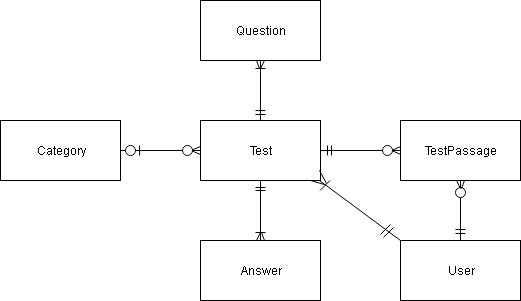
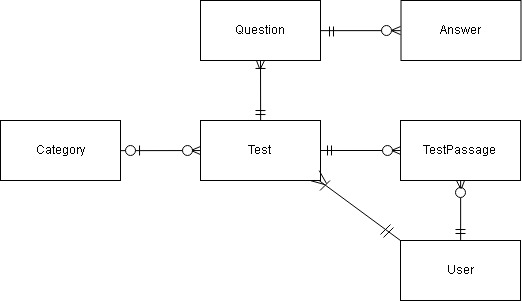
part_5 coccert 2

diff --git a/db/schema.rb b/db/schema.rb
@@ -10,55 +10,6 @@
 #
 # It's strongly recommended that you check this file into your version control system.
 
-ActiveRecord::Schema.define(version: 2018_05_22_195512) do
-
-  create_table "answers", force: :cascade do |t|
-    t.string "body", null: false
-    t.boolean "correct", default: false, null: false
-    t.integer "test_id"
-    t.integer "user_id"
-    t.datetime "created_at", null: false
-    t.datetime "updated_at", null: false
-    t.index ["test_id"], name: "index_answers_on_test_id"
-    t.index ["user_id"], name: "index_answers_on_user_id"
-  end
-
-  create_table "categories", force: :cascade do |t|
-    t.string "title", null: false
-    t.datetime "created_at", null: false
-    t.datetime "updated_at", null: false
-  end
-
-  create_table "questions", force: :cascade do |t|
-    t.string "body", null: false
-    t.integer "test_id"
-    t.datetime "created_at", null: false
-    t.datetime "updated_at", null: false
-    t.index ["test_id"], name: "index_questions_on_test_id"
-  end
-
-  create_table "test_passages", force: :cascade do |t|
-    t.integer "user_id"
-    t.integer "test_id"
-    t.datetime "created_at", null: false
-    t.datetime "updated_at", null: false
-    t.index ["test_id"], name: "index_test_passages_on_test_id"
-    t.index ["user_id"], name: "index_test_passages_on_user_id"
-  end
-
-  create_table "tests", force: :cascade do |t|
-    t.string "title", null: false
-    t.integer "level", default: 0
-    t.integer "category_id"
-    t.datetime "created_at", null: false
-    t.datetime "updated_at", null: false
-    t.index ["category_id"], name: "index_tests_on_category_id"
-  end
-
-  create_table "users", force: :cascade do |t|
-    t.string "name", null: false
-    t.datetime "created_at", null: false
-    t.datetime "updated_at", null: false
-  end
+ActiveRecord::Schema.define(version: 0) do
 
 end

diff --git a/db/seeds.rb b/db/seeds.rb
@@ -25,13 +25,13 @@ category = Category.create! (
 
 test = Test.create! (
     [
-      { title: "RoR basics",  level: 1, category_id: category[0].id, user_id: user[0].id },
-      { title: "HTML basics", level: 0, category_id: category[1].id, user_id: user[0].id },
-      { title: "PHP basics",  level: 1, category_id: category[2].id, user_id: user[1].id }
+      { title: "RoR basics",  level: 1, category_id: category[0].id },
+      { title: "HTML basics", level: 0, category_id: category[1].id },
+      { title: "PHP basics",  level: 1, category_id: category[2].id }
     ]
   )
 
-Question.create! (
+question = Question.create! (
     [
       { body: "Как отменить последнюю миграцию?", test_id: test[0].id },
       { body: "Как заново создайть базу данных?", test_id: test[0].id },
@@ -41,9 +41,9 @@ Question.create! (
 
 Answer.create! (
     [
-      { body: "rails db:rollback", correct: true, test_id: test[0].id },
-      { body: "rails db:recreate", correct: false, test_id: test[1].id },
-      { body: "form", correct: true, test_id: test[1].id }
+      { body: "rails db:rollback", correct: true, question_id: question[0].id },
+      { body: "rails db:recreate", correct: false, question_id: question[1].id },
+      { body: "form", correct: true, question_id: question[2].id }
     ]
   )
 

diff --git a/app/models/test.rb b/app/models/test.rb
@@ -4,7 +4,7 @@ class Test < ApplicationRecord
   has_many :answers
   has_many :test_passages
   has_many :users, through: :test_passages
-  belongs_to :author, class_name: 'User'
+  #belongs_to :author, class_name: 'User'
 
   def self.category(category)    
     joins(:category).where(categories: {title: category}).order(title: :desc).pluck(:title)    

diff --git a/db/migrate/20180520141805_create_answers.rb b/db/migrate/20180520141805_create_answers.rb
@@ -3,7 +3,7 @@ class CreateAnswers < ActiveRecord::Migration[5.2]
     create_table :answers do |t|
       t.string :body, null: false
       t.boolean :correct, default: false, null: false
-      t.references :test, foreign_key: true
+      t.references :question, foreign_key: true
       t.references :user, foreign_key: true
 
       t.timestamps

diff --git a/app/models/answer.rb b/app/models/answer.rb
@@ -1,3 +1,3 @@
 class Answer < ApplicationRecord
-  belongs_to :test
+  belongs_to :question
 end
